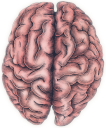
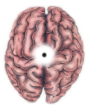
Improved responsiveness for all browsers

diff --git a/src/components/pages/Game/styles.css b/src/components/pages/Game/styles.css
@@ -2,7 +2,7 @@
   background-color: rgba(0, 0, 0, .3);
   font-size: 3rem;
   height: 100vh;
-  cursor: url('../../../assets/img/brain.png') 53 64, auto;
+  cursor: url('../../../assets/img/brain.png') 45 55, auto;
 }
 
 .Game:active {
@@ -34,7 +34,7 @@
 
 .Back-screen {
   background-color: rgba(0, 0, 0, 0);
-  position: fixed;
+  position: sticky;
   top: 0;
   width: 100%;
   height: 100vh;
@@ -42,15 +42,16 @@
   pointer-events: none;
   vertical-align: bottom;
 }
+
 .Back-screen > * {
-  font-size: 1px;
-  position: relative;
+  font-size: 0;
+  position: sticky;
   top: 0;
   opacity: 0;
 }
 
 .Bonus1 {
-  top: 1rem !important;
+  top: 70px !important;
   font-size: 8rem !important;
   opacity: .8 !important;
   transform: rotate(720deg);
@@ -58,7 +59,7 @@
 }
 
 .Bonus2 {
-  top: 1rem !important;
+  top: 70px !important;
   font-size: 8rem !important;
   opacity: .8 !important;
   transform: rotate(-720deg);
@@ -66,7 +67,7 @@
 }
 
 .Bonus3 {
-  top: 4rem !important;
+  top: 70px !important;
   font-size: 3rem !important;
   opacity: .8 !important;
   color: #ffffff;
@@ -108,6 +109,7 @@
 }
 
 .Back-img {
+  background-color: #000000;
   position: absolute;
   top: 0;
   bottom: 0;
@@ -136,6 +138,25 @@
     border-top: 2rem solid #23401b;
     border-left: 1.2rem solid #142610;
     border-bottom: 2rem solid #23401b;
+    outline: #408722 solid 0.2rem;
+
+  }
+
+  .Back-screen {
+    max-height: -moz-available;
+    max-height: -webkit-fill-available;
+    max-height: stretch;
+  }
+
+  .Game {
+    height: 100vh;
+    max-height: -moz-available;
+    max-height: -webkit-fill-available;
+    max-height: stretch;
+  }
+
+  .Logo {
+    display: none;
   }
 }
 
@@ -145,69 +166,5 @@
   }
 }
 
-@media (max-width: 450px) {
-  .Info-bar-bottom {
-    height: 110px;
-  }
-}
-
-@media (max-width: 400px) {
-  .Info-bar-top {
-    flex-direction: column;
-    justify-content: space-around;
-  }
-}
 
 
-
-
-
-
-.Tec-icon {
-  top: calc(100vh - 7rem) !important;
-  margin: 0 1rem;
-  font-size: 5rem !important;
-  opacity: 1 !important;
-  transform: rotate(1440deg);
-  transition: top 1s ease-out, transform 1.2s ease-out, opacity .6s linear;
-}
-
-.Tec-icon2 {
-  margin: 0 1rem;
-  top: calc(100vh - 7rem) !important;
-  font-size: 5rem !important;
-  opacity: .2 !important;
-  transform: none;
-}
-
-@media (max-width: 600px) {
-  .Tec-icon {
-    margin: 0 .5rem;
-  }
-
-  .Tec-icon2 {
-    margin: 0 .5rem;
-  }
-}
-
-@media (max-width: 500px) {
-  .Tec-icon {
-    margin: 0 .2rem;
-  }
-
-  .Tec-icon2 {
-    margin: 0 .2rem;
-  }
-}
-
-@media (max-width: 450px) {
-  .Tec-icon {
-    top: calc(100vh - 14rem) !important;
-    margin: 0 .5rem;
-  }
-
-  .Tec-icon2 {
-    top: calc(100vh - 14rem) !important;
-    margin: 0 .5rem;
-  }
-}

diff --git a/src/components/TecIcons/styles.css b/src/components/TecIcons/styles.css
@@ -1,5 +1,5 @@
 .Tec-icon {
-  top: calc(100vh - 7rem) !important;
+  top: calc(100vh - 60px) !important;
   margin: 0 1rem;
   font-size: 5rem !important;
   opacity: 1 !important;
@@ -8,11 +8,21 @@
 }
 
 .Tec-icon2 {
+  top: calc(100vh - 60px) !important;
   margin: 0 1rem;
-  top: calc(100vh - 7rem) !important;
   font-size: 5rem !important;
   opacity: .2 !important;
   transform: none;
+}
+
+@media (max-width: 720px) {
+  .Tec-icon {
+    top: calc(100vh - 60px) !important;
+  }
+
+  .Tec-icon2 {
+    top: calc(100vh - 60px) !important;
+  }
 }
 
 @media (max-width: 600px) {
@@ -35,14 +45,13 @@
   }
 }
 
-@media (max-width: 450px) {
+@media (max-width: 300px) {
   .Tec-icon {
-    top: calc(100vh - 14rem) !important;
-    margin: 0 .5rem;
+    margin: 0 ;
   }
 
   .Tec-icon2 {
-    top: calc(100vh - 14rem) !important;
-    margin: 0 .5rem;
+    margin: 0;
   }
 }
+

diff --git a/src/components/pages/Game/index.js b/src/components/pages/Game/index.js
@@ -287,7 +287,7 @@ const Game = () => {
       let xDiv = Math.floor(window.innerWidth / 2.715);
       let yDiv = Math.floor(xDiv / 1.49);
       if (window.innerWidth <= 720) {
-        xDiv = Math.floor(window.innerWidth / 2.715);
+        xDiv = Math.floor(window.innerWidth / 2.0);
         yDiv = Math.floor(xDiv * 1.49);
       }
       return { width: xDiv + 'px', height: yDiv + 'px' };
@@ -295,7 +295,7 @@ const Game = () => {
       let yDiv = Math.floor(window.innerHeight / 2.715);
       let xDiv = Math.floor(yDiv / 0.67);
       if (window.innerWidth <= 720) {
-        yDiv = Math.floor(window.innerHeight / 2.715);
+        yDiv = Math.floor(window.innerHeight / 2.0);
         xDiv = Math.floor(yDiv * 0.67);
       }
       return { width: xDiv + 'px', height: yDiv + 'px' };

diff --git a/src/App.css b/src/App.css
@@ -5,12 +5,18 @@
   background-image: url(./assets/img/background.jpeg);
   background-size: cover;
   background-position: center center;
-  min-height: 100vh;
+  height: 100vh;
 }
 
 @media (max-width: 720px) {
   .App {
     background-image: url(./assets/img/background2.jpeg);
+    overflow: hidden;
+    height: 100vh;
+    max-height: -moz-available;
+    max-height: -webkit-fill-available;
+    max-height: stretch;
+
   }
 }
 

diff --git a/src/components/pages/Home/styles.css b/src/components/pages/Home/styles.css
@@ -1,6 +1,7 @@
 .Home {
   background-color: rgba(0, 0, 0, .3);
-  min-height: 100vh;
+  height: 100vh;
+  height: -webkit-fill-available;
   display: flex;
   flex-direction: column;
   justify-content: center;
@@ -18,6 +19,12 @@
     0 0 92px #0fa,
     0 0 102px #0fa,
     0 0 151px #0fa;
+}
+
+@media (max-width: 720px) {
+  .Home {
+    height: -webkit-fill-available;
+  }
 }
 
 

diff --git a/src/components/Select/styles.css b/src/components/Select/styles.css
@@ -1,5 +1,6 @@
 .Select select {
   text-align: center;
+  text-align-last: center;
   width: 27rem;
   height: 8rem;
   margin: 2rem;
@@ -44,4 +45,15 @@
     transform: translate(0, 0);
   }
 
+}
+
+@media (max-width: 720px) {
+  .Select select {
+    width: 16rem;
+    height: 5rem;
+  }
+
+  .Select select:hover {
+    font-size: 1.8rem;
+  }
 }

diff --git a/src/components/RecruiterMsg/styles.css b/src/components/RecruiterMsg/styles.css
@@ -132,3 +132,10 @@
     transform: translate(0);
   }
 }
+
+@media (max-width: 720px) {
+  .Recruiter-msg button, .Recruiter-msg button::after {
+    width: 16rem;
+    height: 5rem;
+  }
+}

diff --git a/src/components/Button/styles.css b/src/components/Button/styles.css
@@ -92,3 +92,10 @@
     transform: translate(0);
   }
 }
+
+@media (max-width: 720px) {
+  .Button button, .Button button::after {
+    width: 16rem;
+    height: 5rem;
+  }
+}

diff --git a/src/index.css b/src/index.css
@@ -83,7 +83,7 @@ a {
 
 @media (max-width: 300px) {
   html {
-    font-size: 35%;
+    font-size: 30%;
   }
 
 }
